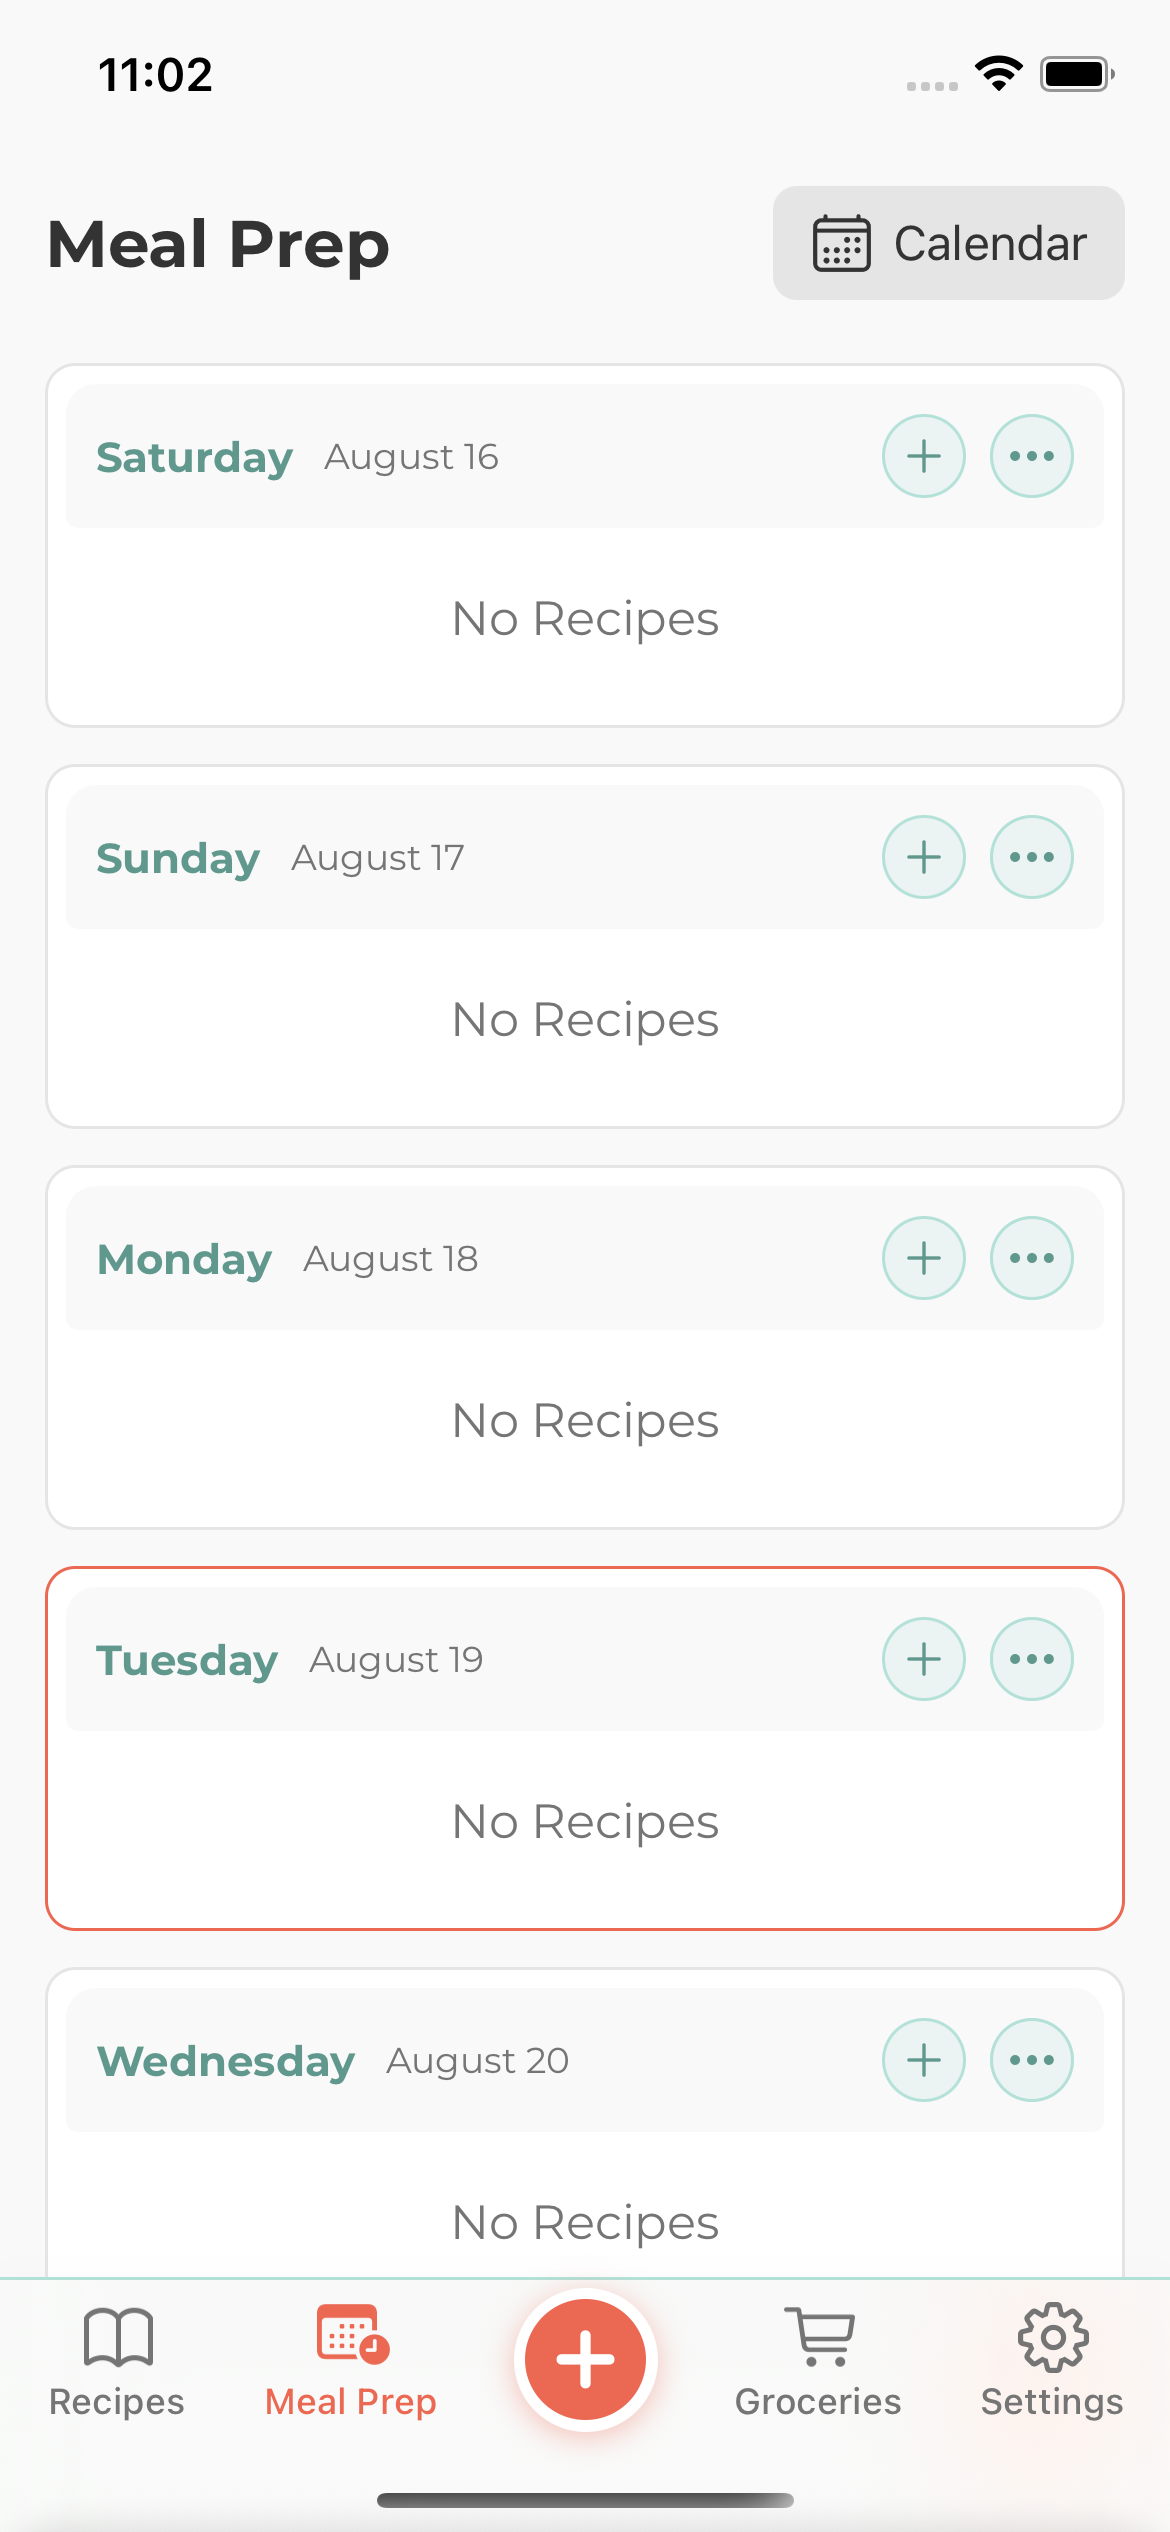
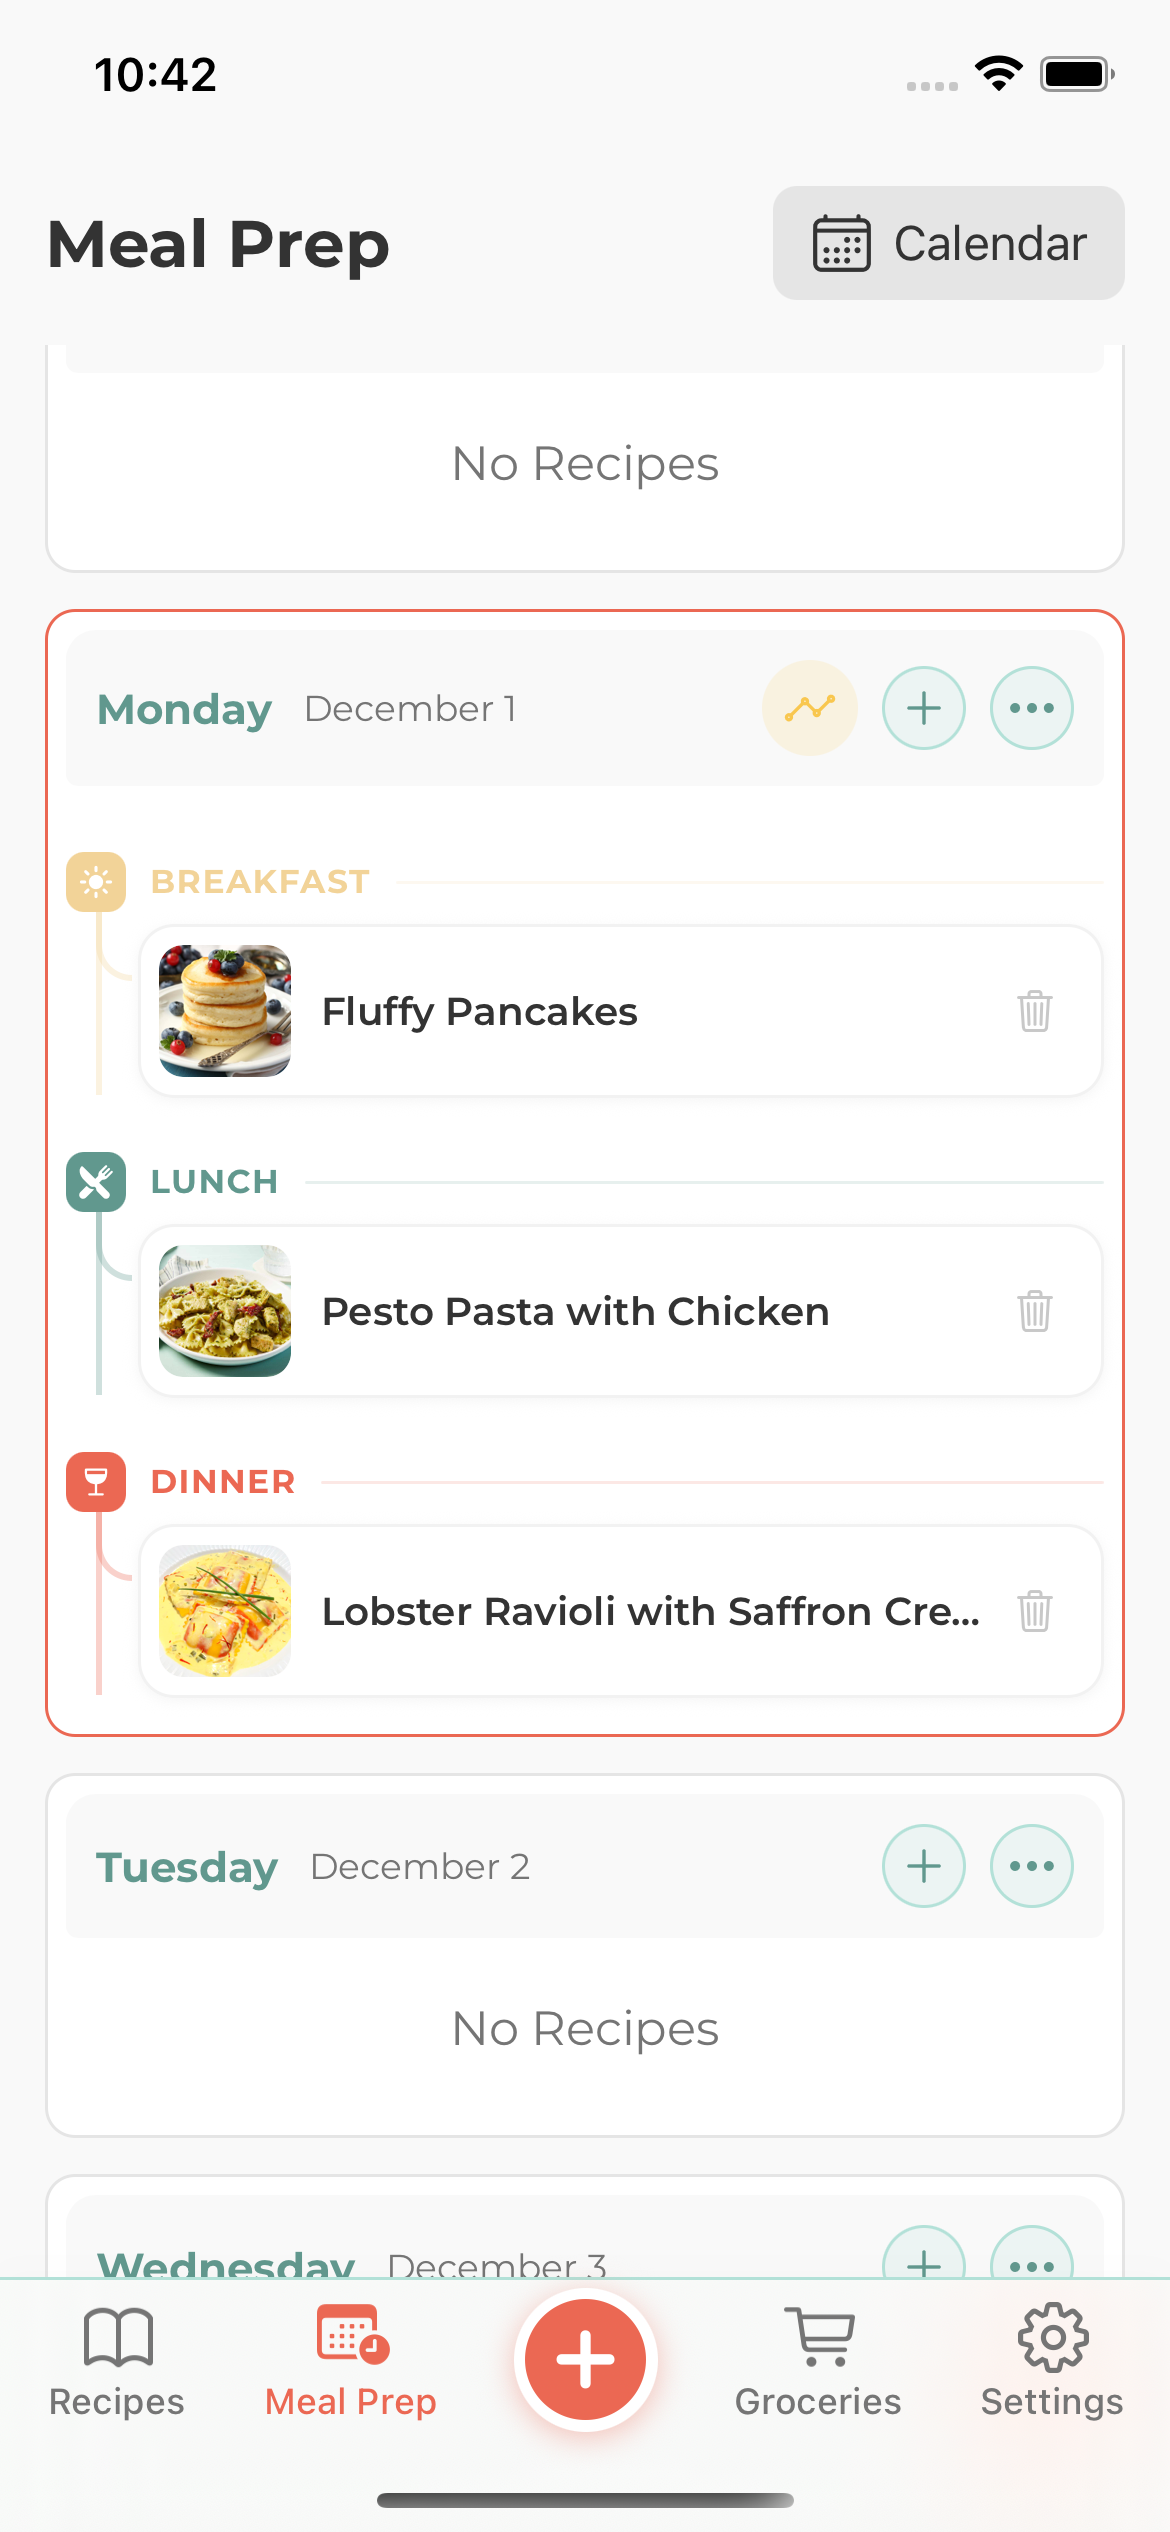
update assets

diff --git a/src/data/mediaAssets.ts b/src/data/mediaAssets.ts
@@ -74,6 +74,14 @@ export const suChefMedia: MediaItem[] = [
     alt: "SuChef recipe cookbook demo video",
     caption: "Live demo: Organize recipes into user-defined cookbooks",
   },
+  {
+    id: "suchef-recipe-meal-plan-video",
+    type: "video",
+    src: "/videos/suchef/meal-plan.mp4",
+    thumbnail: "/images/suchef/meal-plan.png",
+    alt: "SuChef recipe cookbook demo video",
+    caption: "Live demo: Walking through the full meal-planning flow",
+  },
 
   // Screenshots (when you have them):
   // {